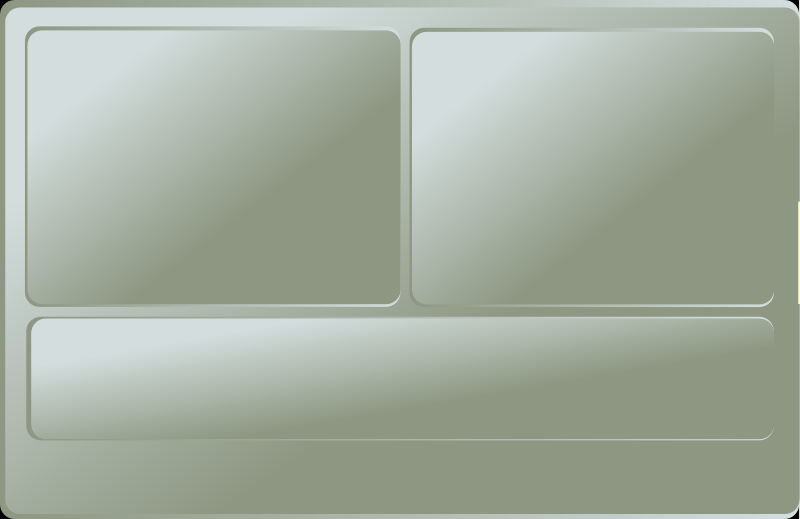
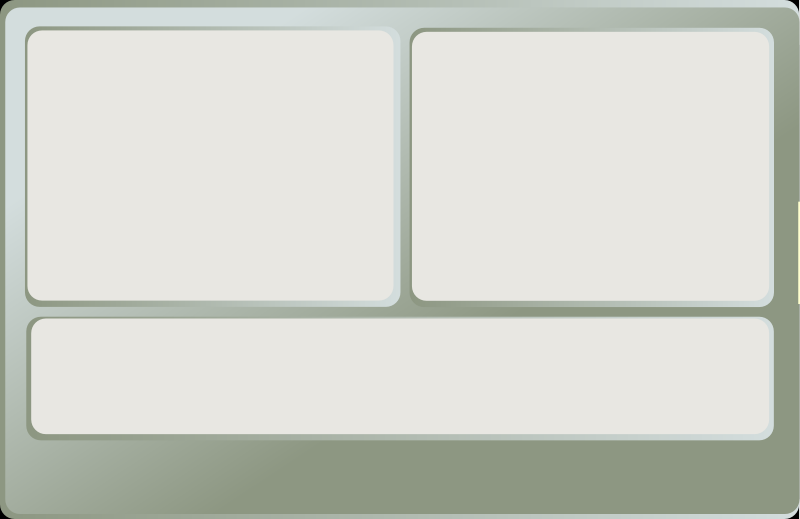
- Improved mosaic background 	- changed gameutil to search files in 	  ~/.gcompris/Plugins/boards if a file is not found in the 	  /usr/.../gcompris/boards directory

diff --git a/src/gcompris/gameutil.c b/src/gcompris/gameutil.c
@@ -1,6 +1,6 @@
 /* gcompris - gameutil.c
  *
- * Time-stamp: <2005/11/02 23:36:26 bruno>
+ * Time-stamp: <2005/11/05 23:21:52 bruno>
  *
  * Copyright (C) 2000 Bruno Coudoin
  *
@@ -1248,39 +1248,53 @@ gchar *g_utf8_strndup(gchar* utf8text, gint n)
  return result;
 } 
 
-/*
- * Return NULL or a new gchar* with the absolute_filename of the given filename
+/** \brief search a given relative file in all gcompris dir it could be found
+ *     
+ * \return NULL or a new gchar* with the absolute_filename of the given filename
  *
  */
 gchar *gcompris_find_absolute_filename(gchar *filename)
 {
-  gchar *absolute_filename;
+  int			 i = 0;
+  gchar			*absolute_filename;
+  gchar			*dir_to_search[4];
+  GcomprisProperties	*properties = gcompris_get_properties();
+  GcomprisBoard		*gcomprisBoard = get_current_gcompris_board();
 
-  /* Search it on the file system */
+  /* Check it's already an absolute file */
+  if(g_path_is_absolute (filename) &&
+     g_file_test (absolute_filename, G_FILE_TEST_IS_REGULAR))
+    return g_strdup(filename);
 
-  if (!g_path_is_absolute (filename)) {
-    GcomprisProperties	*properties = gcompris_get_properties();
-
-    absolute_filename = g_strdup_printf("%s/%s", properties->package_data_dir, filename);
-
-    if (!g_file_test (absolute_filename, G_FILE_TEST_IS_REGULAR)) {
-      GcomprisBoard   *gcomprisBoard = get_current_gcompris_board();
-      g_free(absolute_filename);
-      if(gcomprisBoard) {
-	absolute_filename = g_strdup_printf("%s/%s", gcomprisBoard->board_dir, filename);
-      } else {
-	return NULL;
-      }
-    }
-  } else {
-    absolute_filename = strdup(filename);
-  }
-    
-  if (!g_file_test (absolute_filename, G_FILE_TEST_IS_REGULAR)){
-    g_free(absolute_filename);
-    return NULL;
-  }
+  /*
+   * Search it on the file system
+   */
   
+  dir_to_search[i++] = properties->package_data_dir;
+  dir_to_search[i++] = properties->user_data_dir;
+
+  if(gcomprisBoard)
+    dir_to_search[i++] = gcomprisBoard->board_dir;
+
+  dir_to_search[i++] = NULL;
+
+  absolute_filename = g_strdup(filename);
+  i = 0;
+
+  do
+    {
+      g_free(absolute_filename);
+      absolute_filename = g_strdup_printf("%s/%s", dir_to_search[i], filename);
+      i++;
+    } while (!g_file_test (absolute_filename, G_FILE_TEST_IS_REGULAR) &&
+	     dir_to_search[i]);
+    
+  if(dir_to_search[i-1] == NULL)
+    {
+      g_free(absolute_filename);
+      return NULL;
+    }
+
   return absolute_filename;
 }
 

diff --git a/src/boards/python/mosaic.py b/src/boards/python/mosaic.py
@@ -130,7 +130,6 @@ class Gcompris_mosaic:
     self.cleanup_game()
 
   def ok(self):
-    print("Gcompris_mosaic ok.")
     if(self.target_list == self.user_list):
       self.gamewon = True
       gcompris.bonus.display(gcompris.bonus.WIN, gcompris.bonus.GNU)
@@ -306,7 +305,6 @@ class Gcompris_mosaic:
                   fill_color  = 0xF0F0F0FF
                   fill_letter = " "
                   
-              print "x=%d y=%d" %(x, y)
               item = self.rootitem.add(
                   gnome.canvas.CanvasRect,
                   x1 = orig_x + x * (box_size_x + gap_x),
@@ -406,17 +404,10 @@ class Gcompris_mosaic:
     
     if event.type == gtk.gdk.BUTTON_PRESS:
       if(self.current_index >= 0):
-        print self.current_index
         box_item.set(fill_color_rgba = self.colors[self.current_index])
         text1_item.set(text = self.alphabet[self.current_index])
         text2_item.set(text = self.alphabet[self.current_index])
         self.user_list[box_index] = self.current_index
-
-      print ">>>>>"
-      print self.user_list
-      print "----"
-      print self.target_list
-      print "<<<<<"
 
   # Event when a color square is selected
   def set_color_item_event(self, item, event, data):

diff --git a/src/gcompris/gcompris.c b/src/gcompris/gcompris.c
@@ -486,6 +486,8 @@ static void init_background()
   
   /* First, Remove the gnome crash dialog because it locks the user when in full screen */
   signal(SIGSEGV, gcompris_terminate);
+  signal(SIGINT, gcompris_terminate);
+
 
   /* Background area if ratio above 1 */
   if(properties->fullscreen)
@@ -816,6 +818,10 @@ void gcompris_end_board()
 
 void gcompris_exit()
 {
+  /* Do not loopback in exit */
+  signal(SIGINT,  NULL);
+  signal(SIGSEGV, NULL);
+
   board_stop();
 
   gcompris_db_exit();
@@ -1057,8 +1063,6 @@ gcompris_init (int argc, char *argv[])
 
   /* To have some real random behaviour */
   srand (time (NULL));
-
-  signal(SIGINT, gcompris_terminate);
 
   /* Default difficulty filter: non specified */
   popt_difficulty_filter = -1;

diff --git a/src/gcompris/properties.c b/src/gcompris/properties.c
@@ -1,6 +1,6 @@
 /* gcompris - properties.c
  *
- * Time-stamp: <2005/10/01 14:03:36 bruno>
+ * Time-stamp: <2005/11/05 23:15:45 bruno>
  *
  * Copyright (C) 2000,2003 Bruno Coudoin
  *
@@ -185,6 +185,9 @@ GcomprisProperties *gcompris_properties_new ()
 
   tmp->users_dir        = g_strconcat(gcompris_user_dir, "/users", NULL);
   create_rootdir( tmp->users_dir );
+
+  tmp->user_data_dir	= g_strconcat(gcompris_user_dir, "/Plugins/boards", NULL);
+  create_rootdir( tmp->user_data_dir );
 
   /* Needs to be set after command line parsing */
   tmp->database          = NULL;

diff --git a/src/gcompris/properties.h b/src/gcompris/properties.h
@@ -1,6 +1,6 @@
 /* gcompris - properties.h
  *
- * Time-stamp: <2005/09/28 21:03:08 bruno>
+ * Time-stamp: <2005/11/05 19:18:48 bruno>
  *
  * Copyright (C) 2000 Bruno Coudoin
  *
@@ -38,6 +38,7 @@ typedef struct {
   gint		difficulty_max;
   gchar        *root_menu;
   gchar        *local_directory;
+  gchar        *user_data_dir;
   gchar        *package_data_dir;
   gchar	       *locale;
   gchar	       *skin;
